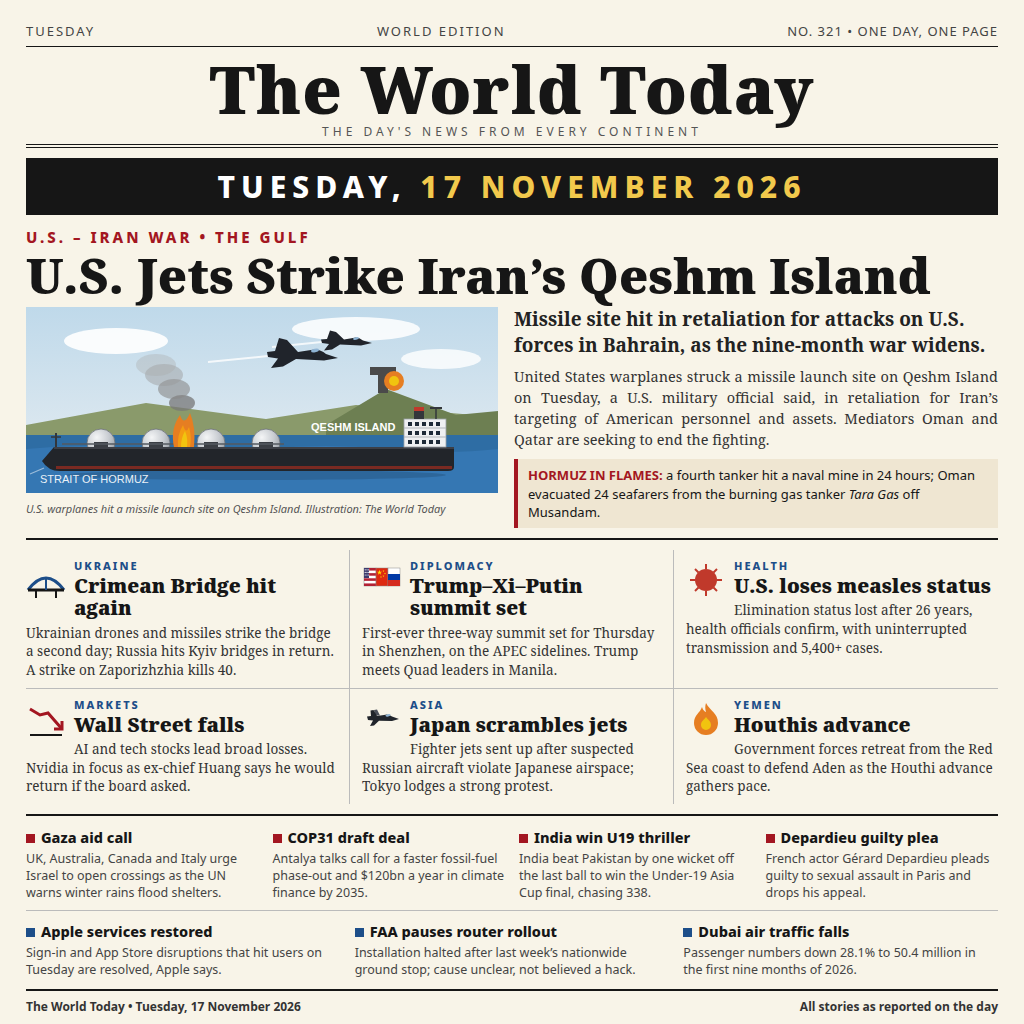
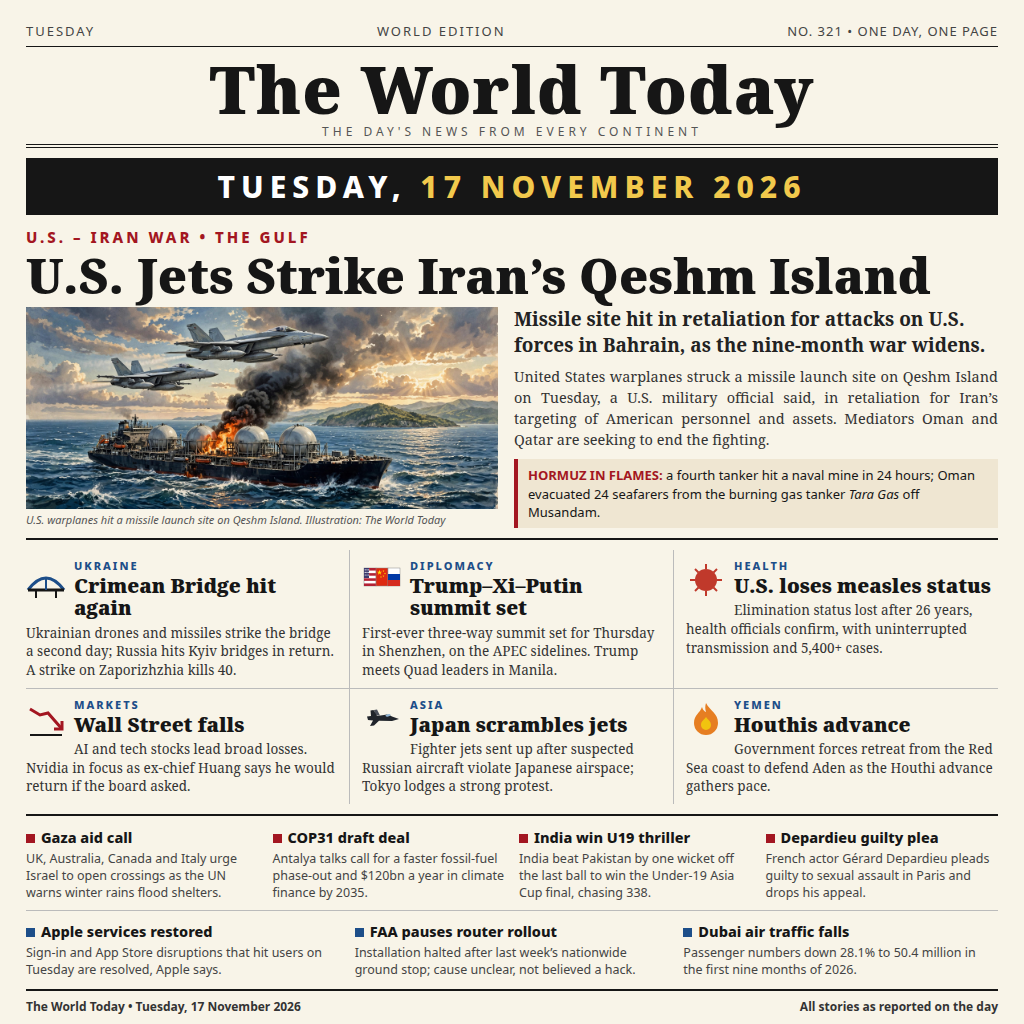
Replace flat SVG lead art with detailed editorial illustration

Changed region(s): [[0.0, 0.2812, 0.5, 0.5312]]

diff --git a/image.html b/image.html
@@ -52,6 +52,10 @@
   }
   .lead-row { display: flex; gap: 16px; }
   .lead-art { flex: 0 0 472px; }
+  .lead-art img {
+    display: block; width: 472px; height: 202px;
+    object-fit: cover; object-position: center;
+  }
   .lead-art figcaption {
     font-family: "Noto Sans", sans-serif; font-size: 11px; color: #555;
     margin-top: 3px; font-style: italic;
@@ -130,101 +134,7 @@
     <h2>U.S. Jets Strike Iran&rsquo;s Qeshm Island</h2>
     <div class="lead-row">
       <figure class="lead-art">
-        <svg width="472" height="186" viewBox="0 0 472 186" xmlns="http://www.w3.org/2000/svg">
-          <defs>
-            <linearGradient id="sky" x1="0" y1="0" x2="0" y2="1">
-              <stop offset="0" stop-color="#bfd9ea"/><stop offset="1" stop-color="#e8eef2"/>
-            </linearGradient>
-            <radialGradient id="tank" cx="0.35" cy="0.3" r="0.95">
-              <stop offset="0" stop-color="#f4f5f6"/><stop offset="0.45" stop-color="#c9cdd2"/><stop offset="0.8" stop-color="#9aa0a7"/><stop offset="1" stop-color="#7d838a"/>
-            </radialGradient>
-          </defs>
-          <rect width="472" height="186" fill="url(#sky)"/>
-          <ellipse cx="90" cy="34" rx="52" ry="13" fill="#ffffff" opacity="0.9"/>
-          <ellipse cx="330" cy="22" rx="64" ry="12" fill="#ffffff" opacity="0.85"/>
-          <ellipse cx="415" cy="52" rx="40" ry="10" fill="#ffffff" opacity="0.8"/>
-          <!-- far shore -->
-          <path d="M0 118 L120 96 L240 112 L330 98 L472 110 L472 186 L0 186 Z" fill="#8a9a6b"/>
-          <!-- island -->
-          <path d="M300 118 L360 82 L430 108 L472 104 L472 128 L300 128 Z" fill="#6d7f52"/>
-          <rect x="352" y="66" width="10" height="20" fill="#4a4a4a"/>
-          <rect x="344" y="60" width="26" height="8" fill="#4a4a4a"/>
-          <!-- sea -->
-          <path d="M0 128 L472 128 L472 186 L0 186 Z" fill="#2e6da4"/>
-          <path d="M0 142 Q60 136 120 142 T240 142 T360 142 T472 142 L472 186 L0 186 Z" fill="#3577b3"/>
-          <!-- LPG gas carrier Tara Gas: long sleek hull, Moss-type spherical tanks, on fire -->
-          <g>
-            <!-- reflection under hull -->
-            <ellipse cx="230" cy="168" rx="190" ry="5" fill="#16324f" opacity="0.25"/>
-            <!-- Moss tanks: metallic spheres seated into the hull -->
-            <g>
-              <circle cx="75" cy="136" r="14" fill="url(#tank)" stroke="#6b7076" stroke-width="0.8"/>
-              <circle cx="130" cy="136" r="14" fill="url(#tank)" stroke="#6b7076" stroke-width="0.8"/>
-              <circle cx="185" cy="136" r="14" fill="url(#tank)" stroke="#6b7076" stroke-width="0.8"/>
-              <circle cx="240" cy="136" r="14" fill="url(#tank)" stroke="#6b7076" stroke-width="0.8"/>
-            </g>
-            <!-- support skirts under each sphere -->
-            <g fill="#3a3e44">
-              <rect x="68" y="135" width="14" height="5"/>
-              <rect x="123" y="135" width="14" height="5"/>
-              <rect x="178" y="135" width="14" height="5"/>
-              <rect x="233" y="135" width="14" height="5"/>
-            </g>
-            <!-- long sleek hull -->
-            <path d="M28 140 L428 140 L428 160 Q428 164 422 164 L34 164 Q22 164 16 154 L28 140 Z" fill="#22252a"/>
-            <rect x="30" y="159" width="396" height="3" fill="#7a2a22"/>
-            <line x1="28" y1="141" x2="428" y2="141" stroke="#565b62" stroke-width="1"/>
-            <!-- deck pipe run -->
-            <line x1="36" y1="137" x2="258" y2="137" stroke="#555a60" stroke-width="1.5"/>
-            <!-- bow wake -->
-            <path d="M18 161 L4 167" stroke="#ffffff" stroke-width="1.2" opacity="0.5"/>
-            <!-- foremast at bow -->
-            <line x1="30" y1="140" x2="30" y2="126" stroke="#33363b" stroke-width="2"/>
-            <line x1="25" y1="130" x2="35" y2="130" stroke="#33363b" stroke-width="1.5"/>
-            <!-- bridge castle at stern -->
-            <g>
-              <rect x="378" y="112" width="42" height="28" fill="#eef0f2" stroke="#9aa0a6" stroke-width="0.8"/>
-              <line x1="378" y1="121" x2="420" y2="121" stroke="#b0b5ba" stroke-width="1"/>
-              <line x1="378" y1="130" x2="420" y2="130" stroke="#b0b5ba" stroke-width="1"/>
-              <g fill="#1d2a38">
-                <rect x="382" y="115" width="4" height="4"/><rect x="389" y="115" width="4" height="4"/><rect x="396" y="115" width="4" height="4"/><rect x="403" y="115" width="4" height="4"/><rect x="410" y="115" width="4" height="4"/>
-                <rect x="382" y="124" width="4" height="4"/><rect x="389" y="124" width="4" height="4"/><rect x="396" y="124" width="4" height="4"/><rect x="403" y="124" width="4" height="4"/><rect x="410" y="124" width="4" height="4"/>
-                <rect x="382" y="133" width="4" height="4"/><rect x="389" y="133" width="4" height="4"/><rect x="396" y="133" width="4" height="4"/><rect x="403" y="133" width="4" height="4"/><rect x="410" y="133" width="4" height="4"/>
-              </g>
-              <rect x="388" y="100" width="10" height="12" fill="#33363b"/>
-              <rect x="388" y="100" width="10" height="4" fill="#c0392b"/>
-              <line x1="410" y1="112" x2="410" y2="102" stroke="#33363b" stroke-width="1.5"/>
-              <rect x="404" y="100" width="12" height="2" fill="#33363b"/>
-            </g>
-            <!-- fire on deck between 2nd and 3rd tanks -->
-            <path d="M148 140 Q144 122 154 108 Q158 120 164 106 Q170 120 168 140 Z" fill="#e67e22"/>
-            <path d="M152 140 Q151 128 157 118 Q160 128 163 120 Q166 130 164 140 Z" fill="#f39c12"/>
-            <path d="M155 140 Q155 131 159 124 Q162 131 161 140 Z" fill="#f1c40f"/>
-            <!-- smoke drifting up-left -->
-            <ellipse cx="156" cy="96" rx="13" ry="8" fill="#777777" opacity="0.75"/>
-            <ellipse cx="148" cy="82" rx="16" ry="10" fill="#888888" opacity="0.6"/>
-            <ellipse cx="138" cy="68" rx="19" ry="11" fill="#999999" opacity="0.45"/>
-            <ellipse cx="130" cy="58" rx="20" ry="11" fill="#aaaaaa" opacity="0.35"/>
-          </g>
-          <!-- fighter jets, F/A-18 style side profiles, flying toward Qeshm -->
-          <path d="M242 49 L182 55" stroke="#ffffff" stroke-width="2" opacity="0.8"/>
-          <path d="M296 35 L246 40" stroke="#ffffff" stroke-width="2" opacity="0.8"/>
-          <g>
-            <path d="M266 44 L260 35 L255 36 L258 45 Z" fill="#3a3f4a"/>
-            <path d="M312 51 L300 47 Q293 41 285 43 L272 45 L261 33 L253 31 L249 44 L241 45 L242 50 L252 51.5 L245 61 L257 59.5 L270 52 L298 53.5 Z" fill="#20242b"/>
-            <ellipse cx="289" cy="43.5" rx="4" ry="1.8" fill="#8fb4d4" transform="rotate(-10 289 43.5)"/>
-          </g>
-          <g>
-            <path d="M314 32.5 L309 27 L306 28 L309 33 Z" fill="#3a3f4a"/>
-            <path d="M346 36 L337 33.5 Q332 29.5 327 31 L318 32.5 L310 25 L304 23.5 L301 32 L295 32.5 L296 36 L303 37 L298 43.5 L306 42.5 L314 37.5 L335 38.5 Z" fill="#20242b"/>
-            <ellipse cx="330" cy="31.5" rx="3" ry="1.3" fill="#8fb4d4" transform="rotate(-10 330 31.5)"/>
-          </g>
-          <!-- explosion marker on island -->
-          <circle cx="368" cy="74" r="10" fill="#e67e22"/>
-          <circle cx="368" cy="74" r="5" fill="#f1c40f"/>
-          <text x="14" y="176" font-family="sans-serif" font-size="11" fill="#ffffff" opacity="0.9">STRAIT OF HORMUZ</text>
-          <text x="285" y="124" font-family="sans-serif" font-size="11" font-weight="bold" fill="#ffffff">QESHM ISLAND</text>
-        </svg>
+        <img src="lead.jpg" alt="Two U.S. fighter jets fly over a burning gas carrier in the Strait of Hormuz, with Qeshm Island on the horizon">
         <figcaption>U.S. warplanes hit a missile launch site on Qeshm Island. Illustration: The World Today</figcaption>
       </figure>
       <div class="lead-text">
